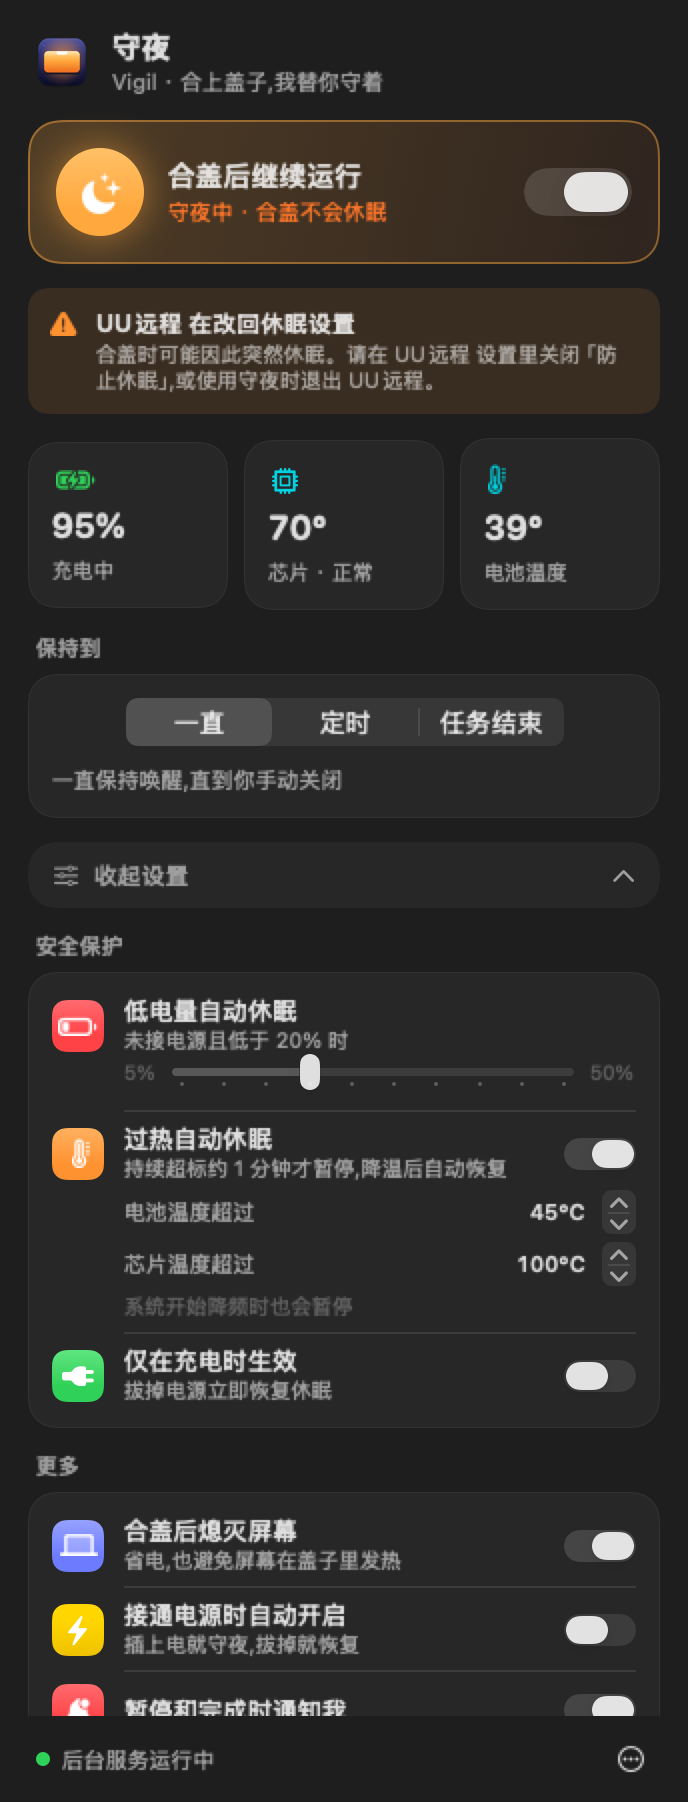
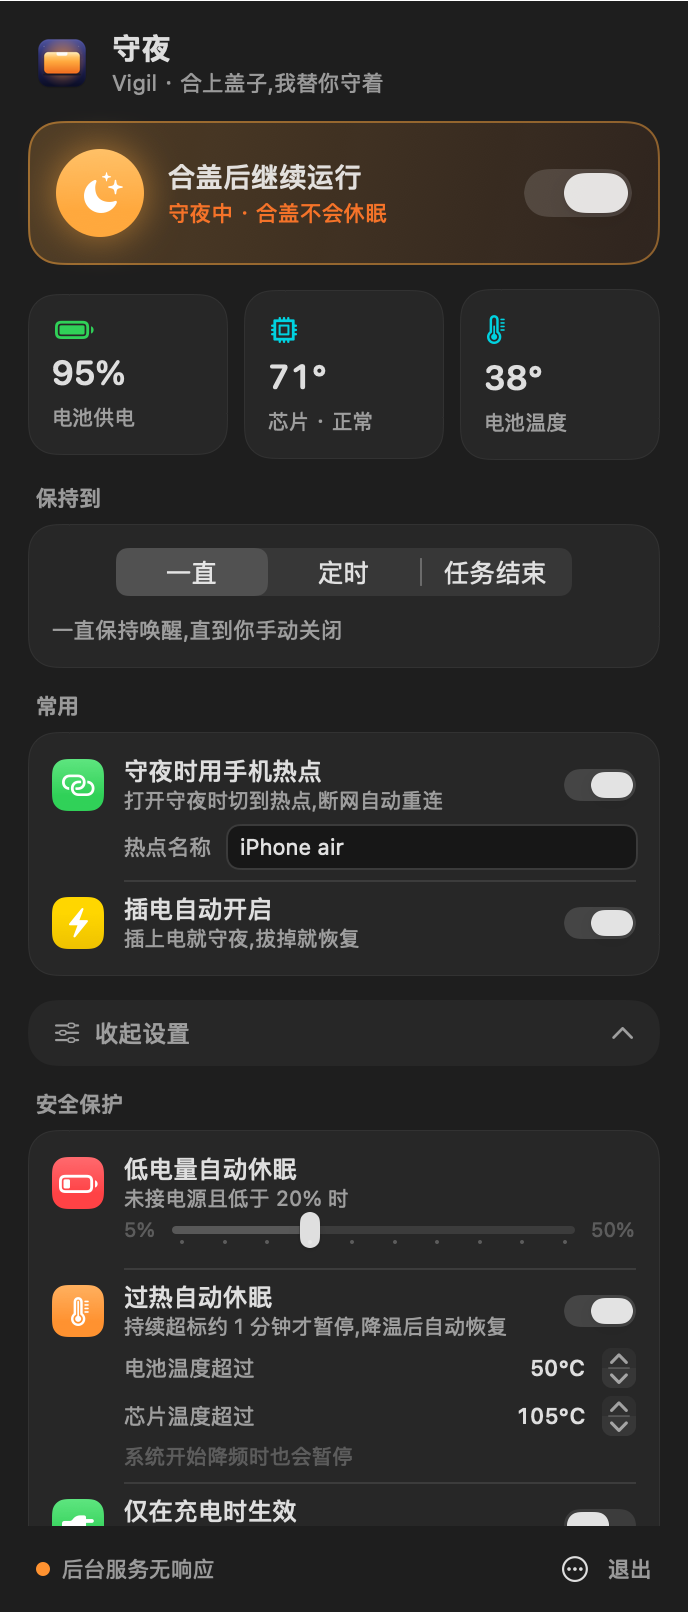
1.4.2: background item shows as Vigil, not "python3"; common toggles up front
- The LaunchDaemon ran /usr/bin/python3 directly, so System Settings >
  Login Items listed it as "python3, Unknown Developer" — which looks
  like junk and got switched off, silently disabling the whole app.
  It now runs a tiny named launcher (vigild) and declares
  AssociatedBundleIdentifiers so macOS attributes it to Vigil.
- Panel shows a red banner with an "打开设置" button when the daemon
  isn't checking in, instead of just a small orange dot.
- Update check also compares the launcher and the plist.
- Hotspot toggle and auto-on-charge moved from the collapsed settings
  to a "常用" card on the main panel; settings section renamed 高级设置.
- Hotspot join result is surfaced in the panel ("没搜到热点" explains
  that iPhone hotspots don't broadcast and to set macOS to auto-join
  hotspots). Failures are logged once per state change, not every
  minute.

diff --git a/App/Sources/PanelView.swift b/App/Sources/PanelView.swift
@@ -20,8 +20,10 @@ struct PanelView: View {
             HeroCard()
             if store.hasConflict { ConflictBanner() }
             if store.daemonOutdated { UpdateBanner() }
+            else if store.daemonInstalled && !store.daemonHealthy { DaemonOffBanner() }
             MetricsRow()
             KeepModeCard()
+            QuickCard()
             settingsToggle
             if showSettings {
                 FitScrollView(maxHeight: maxSettingsHeight) {
@@ -46,7 +48,7 @@ struct PanelView: View {
         } label: {
             HStack(spacing: 6) {
                 Image(systemName: "slider.horizontal.3")
-                Text(showSettings ? "收起设置" : "安全保护与更多设置")
+                Text(showSettings ? "收起设置" : "高级设置")
                 Spacer()
                 Image(systemName: "chevron.down")
                     .rotationEffect(.degrees(showSettings ? 180 : 0))
@@ -153,6 +155,29 @@ struct FitScrollView<Content: View>: View {
 private struct HeightKey: PreferenceKey {
     static let defaultValue: CGFloat = 0
     static func reduce(value: inout CGFloat, nextValue: () -> CGFloat) { value = max(value, nextValue()) }
+}
+
+/// The background item was switched off in System Settings (it used to show
+/// up there as an anonymous "python3", which people understandably disable).
+struct DaemonOffBanner: View {
+    var body: some View {
+        HStack(alignment: .top, spacing: 8) {
+            Image(systemName: "exclamationmark.octagon.fill").foregroundStyle(.red)
+            VStack(alignment: .leading, spacing: 4) {
+                Text("后台服务没有在运行").font(.system(size: 12, weight: .semibold))
+                Text("守夜现在不会生效。请在「登录项与扩展 → 允许在后台」里把守夜(或 vigild / python3)打开。")
+                    .font(.system(size: 10.5)).foregroundStyle(.secondary)
+                    .fixedSize(horizontal: false, vertical: true)
+                Button("打开设置") {
+                    NSWorkspace.shared.open(URL(string: "x-apple.systempreferences:com.apple.LoginItems-Settings.extension")!)
+                }
+                .buttonStyle(.borderedProminent).tint(.red).controlSize(.small)
+            }
+            Spacer(minLength: 0)
+        }
+        .padding(10)
+        .background(RoundedRectangle(cornerRadius: 10, style: .continuous).fill(Color.red.opacity(0.10)))
+    }
 }
 
 struct UpdateBanner: View {
@@ -542,44 +567,67 @@ struct LimitRow: View {
 
 // MARK: - Automation
 
-struct AutomationCard: View {
+struct QuickCard: View {
     @EnvironmentObject var store: Store
 
     var body: some View {
         VStack(spacing: 6) {
-            SectionLabel(text: "更多")
+            SectionLabel(text: "常用")
             VStack(spacing: 0) {
-                Row(symbol: "laptopcomputer", tint: .indigo,
-                    title: "合盖后熄灭屏幕",
-                    subtitle: "接外接显示器时不建议开,可能触发系统锁屏") {
-                    Toggle("", isOn: $store.config.displayOffOnLidClose)
-                        .toggleStyle(.switch).controlSize(.mini).tint(Theme.emberDeep).labelsHidden()
-                }
-                Divider().padding(.leading, 36).padding(.vertical, 6)
                 Row(symbol: "personalhotspot", tint: .green,
                     title: "守夜时用手机热点",
-                    subtitle: "打开守夜立即切到热点,断网也会自动重连。热点需先在这台 Mac 上连过一次") {
+                    subtitle: store.config.autoHotspot ? hotspotLine : "离开公司 Wi-Fi 也不断网") {
                     Toggle("", isOn: $store.config.autoHotspot)
                         .toggleStyle(.switch).controlSize(.mini).tint(Theme.emberDeep).labelsHidden()
                 }
                 if store.config.autoHotspot {
-                    HStack {
+                    HStack(spacing: 8) {
                         Text("热点名称").font(.system(size: 11)).foregroundStyle(.secondary)
                         TextField("例如 iPhone air", text: $store.config.hotspotSSID)
                             .textFieldStyle(.roundedBorder)
                             .font(.system(size: 11))
                     }
                     .padding(.leading, 36)
-                    .padding(.top, 4)
+                    .padding(.top, 6)
+                    if store.daemon.hotspotStatus == "not_found" {
+                        Label("没搜到这个热点。iPhone 热点平时不广播,建议在「系统设置 → Wi-Fi → 询问是否加入热点」选「自动」,由系统自动唤醒。",
+                              systemImage: "exclamationmark.triangle.fill")
+                            .font(.system(size: 10.5))
+                            .foregroundStyle(.orange)
+                            .fixedSize(horizontal: false, vertical: true)
+                            .padding(.leading, 36)
+                            .padding(.top, 6)
+                    }
                 }
                 Divider().padding(.leading, 36).padding(.vertical, 6)
                 Row(symbol: "bolt.fill", tint: .yellow,
-                    title: "接通电源时自动开启",
+                    title: "插电自动开启",
                     subtitle: "插上电就守夜,拔掉就恢复") {
                     Toggle("", isOn: $store.config.autoEnableOnCharge)
                         .toggleStyle(.switch).controlSize(.mini).tint(Theme.emberDeep).labelsHidden()
                 }
-                Divider().padding(.leading, 36).padding(.vertical, 6)
+            }
+            .card()
+        }
+    }
+
+    private var hotspotLine: String {
+        switch store.daemon.hotspotStatus {
+        case "ok": return "已连上手机热点"
+        case "not_found": return "没搜到热点,见下方提示"
+        case "error": return "连接失败,稍后自动重试"
+        default: return "打开守夜时切到热点,断网自动重连"
+        }
+    }
+}
+
+struct AutomationCard: View {
+    @EnvironmentObject var store: Store
+
+    var body: some View {
+        VStack(spacing: 6) {
+            SectionLabel(text: "其他")
+            VStack(spacing: 0) {
                 Row(symbol: "bell.badge.fill", tint: .red,
                     title: "暂停和完成时通知我",
                     subtitle: nil) {
@@ -592,6 +640,13 @@ struct AutomationCard: View {
                     subtitle: nil) {
                     Toggle("", isOn: Binding(get: { store.launchAtLogin },
                                              set: { store.setLaunchAtLogin($0) }))
+                        .toggleStyle(.switch).controlSize(.mini).tint(Theme.emberDeep).labelsHidden()
+                }
+                Divider().padding(.leading, 36).padding(.vertical, 6)
+                Row(symbol: "laptopcomputer", tint: .indigo,
+                    title: "合盖后熄灭屏幕",
+                    subtitle: "接外接显示器时不建议开,可能触发系统锁屏") {
+                    Toggle("", isOn: $store.config.displayOffOnLidClose)
                         .toggleStyle(.switch).controlSize(.mini).tint(Theme.emberDeep).labelsHidden()
                 }
             }

diff --git a/App/Sources/Store.swift b/App/Sources/Store.swift
@@ -90,9 +90,11 @@ struct DaemonState: Decodable {
     var checkedAt: Double = 0
     var overrides: [Double] = []
     var lastBusyAt: Double = 0
+    var hotspotStatus = ""
 
     enum CodingKeys: String, CodingKey {
         case hot, reason, overrides
+        case hotspotStatus = "hotspot_status"
         case checkedAt = "checked_at"
         case lastBusyAt = "last_busy_at"
     }
@@ -106,6 +108,7 @@ struct DaemonState: Decodable {
         checkedAt = (try? c.decodeIfPresent(Double.self, forKey: .checkedAt)) ?? 0
         overrides = (try? c.decodeIfPresent([Double].self, forKey: .overrides)) ?? []
         lastBusyAt = (try? c.decodeIfPresent(Double.self, forKey: .lastBusyAt)) ?? 0
+        hotspotStatus = (try? c.decodeIfPresent(String.self, forKey: .hotspotStatus)) ?? ""
     }
 }
 
@@ -394,10 +397,12 @@ final class Store: ObservableObject {
 
     private static func installedDaemonDiffers() -> Bool {
         guard let bundled = Bundle.main.resourceURL?.appendingPathComponent("daemon") else { return false }
-        for file in ["vigild.py", "thermal.py", "vigil-sensors"] {
+        let pairs = ["vigild.py", "thermal.py", "vigil-sensors", "vigild"].map {
+            ($0, "\(installedDaemonDir)/\($0)")
+        } + [("com.vigil.daemon.plist", daemonPlist)]
+        for (file, installed) in pairs {
             guard let a = try? Data(contentsOf: bundled.appendingPathComponent(file)) else { continue }
-            let b = try? Data(contentsOf: URL(fileURLWithPath: "\(installedDaemonDir)/\(file)"))
-            if a != b { return true }
+            if a != (try? Data(contentsOf: URL(fileURLWithPath: installed))) { return true }
         }
         return false
     }

diff --git a/App/Sources/Installer.swift b/App/Sources/Installer.swift
@@ -28,6 +28,7 @@ enum Installer {
         install -m 755 -o root -g wheel '\(r)/vigild.py'  /usr/local/libexec/vigil/vigild.py
         install -m 644 -o root -g wheel '\(r)/thermal.py' /usr/local/libexec/vigil/thermal.py
         install -m 755 -o root -g wheel '\(r)/vigil-sensors' /usr/local/libexec/vigil/vigil-sensors
+        install -m 755 -o root -g wheel '\(r)/vigild' /usr/local/libexec/vigil/vigild
         install -m 644 -o root -g wheel '\(r)/com.vigil.daemon.plist' /Library/LaunchDaemons/com.vigil.daemon.plist
         launchctl bootout system/com.vigil.daemon 2>/dev/null || true
         launchctl bootstrap system /Library/LaunchDaemons/com.vigil.daemon.plist

diff --git a/daemon/vigild.py b/daemon/vigild.py
@@ -65,6 +65,8 @@ STATE_DEFAULTS = {
     "offline_since": 0,
     "last_hotspot_try": 0,
     "user_enabled": None,
+    "hotspot_status": "",
+    "hotspot_at": 0,
 }
 
 
@@ -292,6 +294,8 @@ def handle_network(cfg, state, awake, now):
         return
     if online():
         state["offline_since"] = 0
+        if state.get("hotspot_status") in ("not_found", "error"):
+            state["hotspot_status"] = ""
         return
     if not state.get("offline_since"):
         state["offline_since"] = now
@@ -309,7 +313,11 @@ def join_hotspot(ssid, state, now, why):
     run("networksetup", "-setairportpower", dev, "on")
     # Password comes from the System keychain, where macOS keeps saved Wi-Fi.
     out = run("networksetup", "-setairportnetwork", dev, ssid).strip()
-    log("{} -> joining hotspot '{}' {}".format(why, ssid, "failed: " + out if out else "ok"))
+    status = "not_found" if "Could not find" in out else ("error" if out else "ok")
+    if status != state.get("hotspot_status") or status == "ok":
+        log("{} -> joining hotspot '{}' {}".format(why, ssid, "failed: " + out if out else "ok"))
+    state["hotspot_status"] = status
+    state["hotspot_at"] = int(now)
 
 
 def handle_switch_on(cfg, state, now):

diff --git a/daemon/launcher.c b/daemon/launcher.c
@@ -1,0 +1,8 @@
+/* vigild — named launcher so macOS lists the background item as "vigild"
+   (attributed to Vigil) instead of an anonymous /usr/bin/python3. */
+#include <unistd.h>
+int main(void) {
+    char *argv[] = {"/usr/bin/python3", "/usr/local/libexec/vigil/vigild.py", 0};
+    execv(argv[0], argv);
+    return 127;
+}
